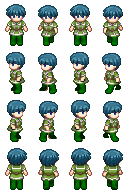
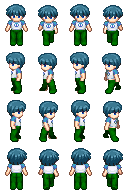
DanilF - Added player view model and changed image a little.

diff --git a/public/app/maze-renderer.ts b/public/app/maze-renderer.ts
@@ -4,8 +4,20 @@ namespace app {
     import Container = PIXI.Container;
     import Graphics = PIXI.Graphics;
     import Text = PIXI.Text;
+    import Rectangle = PIXI.Rectangle;
+    import Texture = PIXI.Texture;
+    import Sprite = PIXI.Sprite;
 
+    let TextureCache = PIXI.utils.TextureCache;
     const Debug = false;
+
+    export function loadAssets(done: () => void): void {
+        PIXI.loader
+            .add([
+                'assets/player.png'
+            ])
+            .load(done);
+    }
 
     export function renderMaze(element: HTMLElement, maze: Maze): GameManager {
         // Setup and configure the PIXI renderer
@@ -18,8 +30,21 @@ namespace app {
         renderer.backgroundColor = 0xFFF;
         $element.append(renderer.view);
 
-        let mazeView = new MazeView(maze);
-        return new GameManager(renderer, mazeView);
+        let scene = new Container(),
+            mazeView = new MazeView(maze),
+            player = new PlayerView();
+
+        scene.addChild(mazeView);
+        scene.addChild(player);
+        let centerX = maze.width / 2,
+            centerY = maze.height / 2,
+            centerCell = mazeView.cellViewAt(centerX, centerY),
+            centerPos = centerCell.getGlobalPosition(undefined);
+
+        player.x = centerPos.x + (player.width / 4);
+        player.y = centerPos.y;
+
+        return new GameManager(renderer, scene);
     }
 
     export class GameManager {
@@ -54,10 +79,11 @@ namespace app {
     }
 
     export class MazeView extends Container {
-        private pixelsPerCell = 40;
+        private pixelsPerCell = 48;
         private marginX = 10;
         private marginY = 10;
         private maze: Maze;
+        private viewByMazePosition: MazeCellView[][] = [];
 
         constructor(maze: Maze) {
             super();
@@ -75,6 +101,7 @@ namespace app {
 
             for (let row = 0; row < maze.height; row++) {
                 currentX = marginX;
+                let rowCells = [];
                 for (let col = 0; col < maze.width; col++) {
                     let cell = maze.getCell(col, row),
                         cellView = new MazeCellView(cell, pixelsPerCell);
@@ -83,12 +110,18 @@ namespace app {
                     cellView.y = currentY;
 
                     this.addChild(cellView);
+                    rowCells.push(cellView);
 
                     currentX += pixelsPerCell;
                 }
 
+                this.viewByMazePosition.push(rowCells);
                 currentY += pixelsPerCell;
             }
+        }
+
+        cellViewAt(x: number, y: number): MazeCellView {
+            return this.viewByMazePosition[y][x];
         }
     }
 
@@ -141,13 +174,28 @@ namespace app {
     }
 
     export class PlayerView extends Container {
+        private texturesByDirection: { [key: string]: Texture[]; } = {};
+
         constructor() {
             super();
             this.build();
         }
 
         build(): void {
+            let framesPerAnim = 4,
+                directions = 4,
+                width = 128,
+                height = 192,
+                cellWidth = width / framesPerAnim,
+                cellHeight = height / directions,
+                texture = TextureCache['assets/player.png'],
+                rect1 = new Rectangle(0, 0, cellWidth, cellHeight);
 
+            texture.frame = rect1;
+            let sprite = new Sprite(texture);
+            sprite.x = 0;
+            sprite.y = 0;
+            this.addChild(sprite);
         }
     }
 }

diff --git a/public/app/maze.html b/public/app/maze.html
@@ -6,7 +6,7 @@
 <!--<canvas id="canvas"></canvas>-->
 <div id="main" class="container-fluid">
     <div class="row">
-        <div id="maze-container" class="col-md-8 col-md-offset-2">
+        <div id="maze-container" class="col-md-12">
 
         </div>
     </div>
@@ -21,11 +21,13 @@
 <script type="text/javascript" src="/app/maze-renderer.js"></script>
 <script type="text/javascript">
     $(function () {
-        var maze = app.generateMaze(20, 20);
+        var maze = app.generateMaze(20, 18);
 
         var $main = $('#maze-container');
-        var runner = app.renderMaze($main[0], maze);
-        runner.start();
+        app.loadAssets(function () {
+            var runner = app.renderMaze($main[0], maze);
+            runner.start();
+        });
 
 //        var element = document.getElementById('canvas');
 //        app.renderMaze(element, maze);
